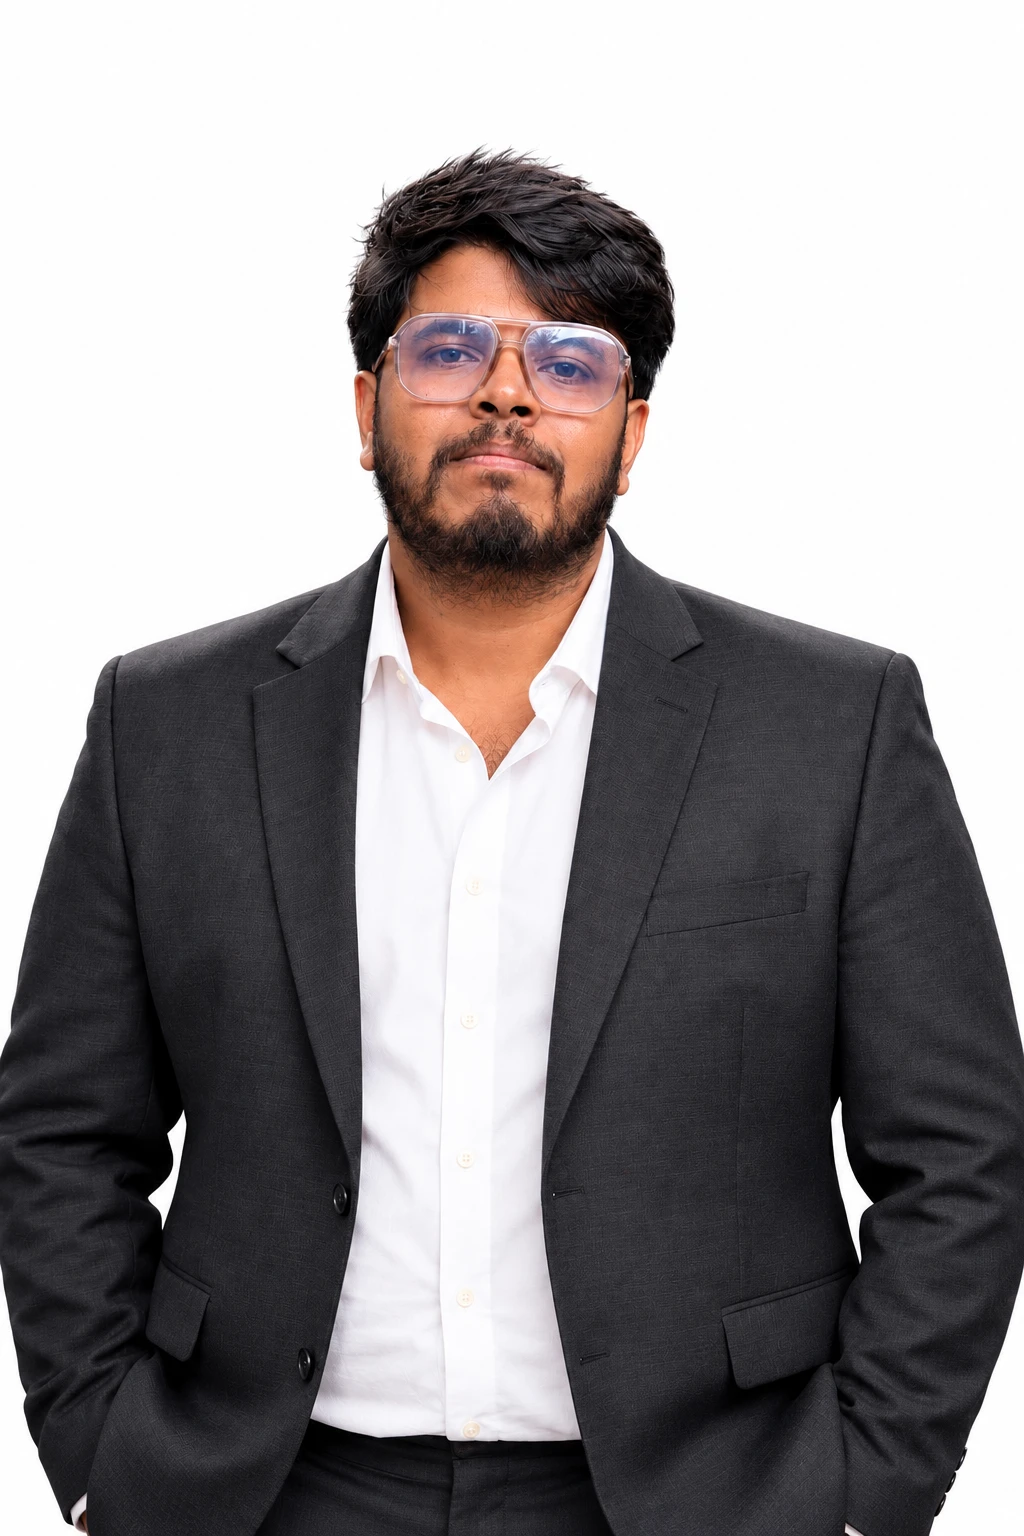
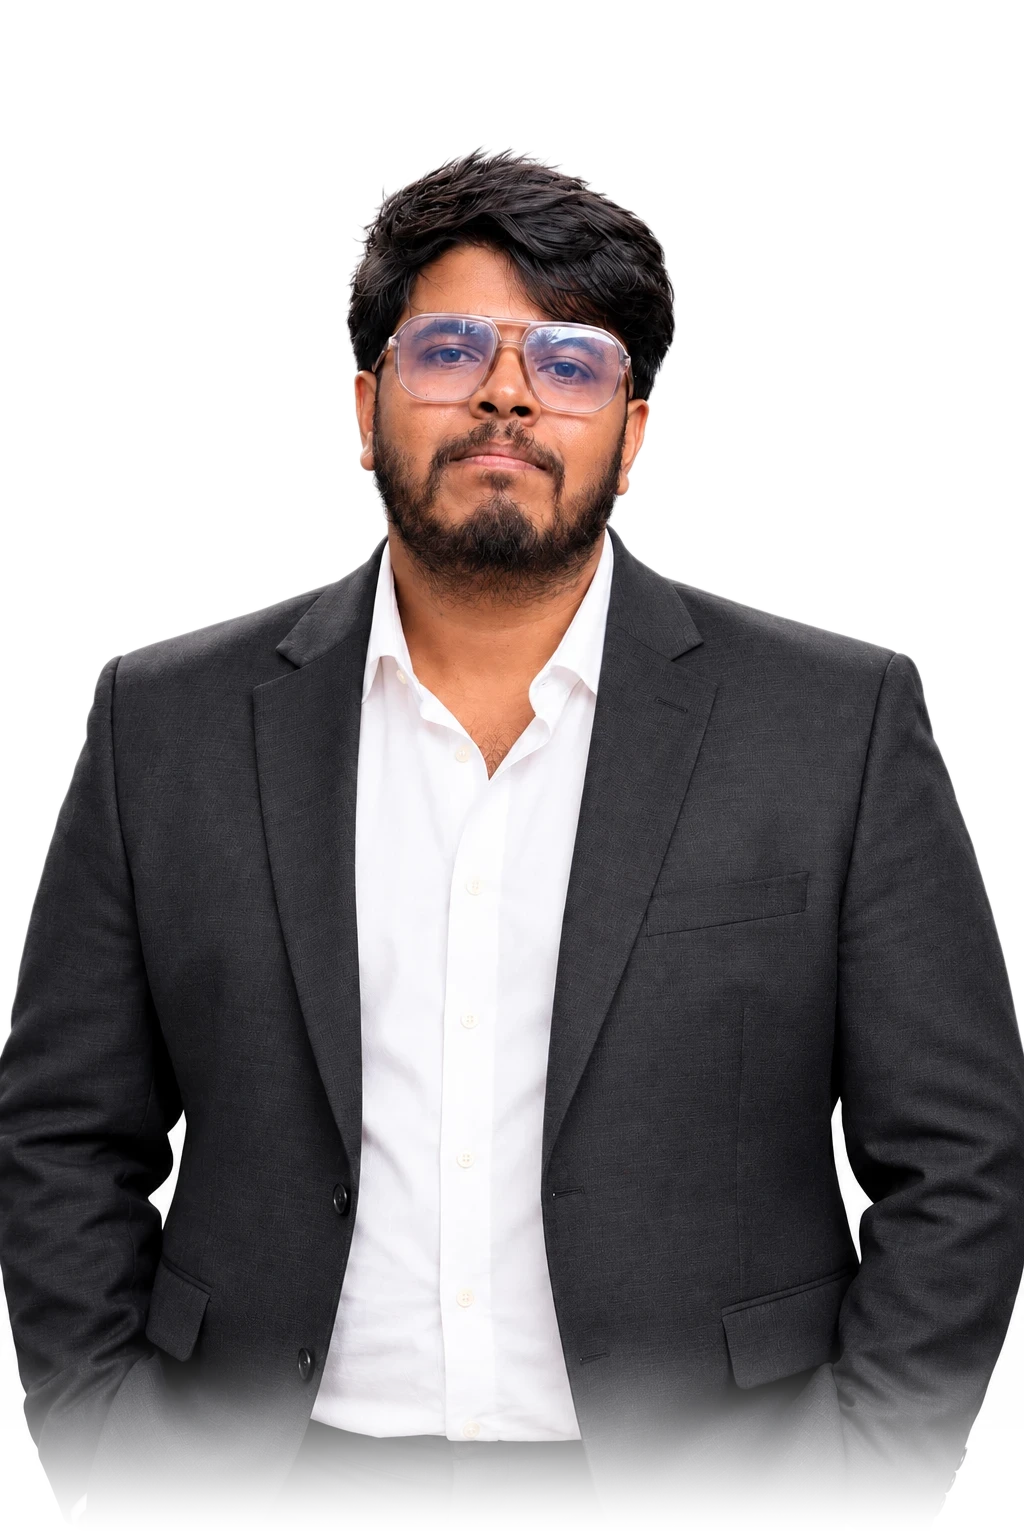
Owner Day portrait: true cut-out, removes circular shadow
Claude-Session: https://claude.ai/code/session_01JbT4DJRAdyRM58RNoFcmRz

Changed region(s): [[0.0, 0.875, 0.9688, 1.0]]

diff --git a/src/styles/owner.css b/src/styles/owner.css
@@ -115,6 +115,4 @@
 /* Day theme uses the white-suit portrait; its white backdrop multiplies into the page colour */
 .portrait-day{display:none}
 :root[data-shop="day"] .portrait-night{display:none}
-:root[data-shop="day"] .portrait-day{display:block;object-position:50% 14%;
-  -webkit-mask-image:radial-gradient(ellipse 58% 62% at 50% 44%,#000 55%,#000a 72%,transparent 100%);
-  mask-image:radial-gradient(ellipse 58% 62% at 50% 44%,#000 55%,#000a 72%,transparent 100%)}
+:root[data-shop="day"] .portrait-day{display:block;object-fit:contain;object-position:50% 100%;-webkit-mask-image:none;mask-image:none}
